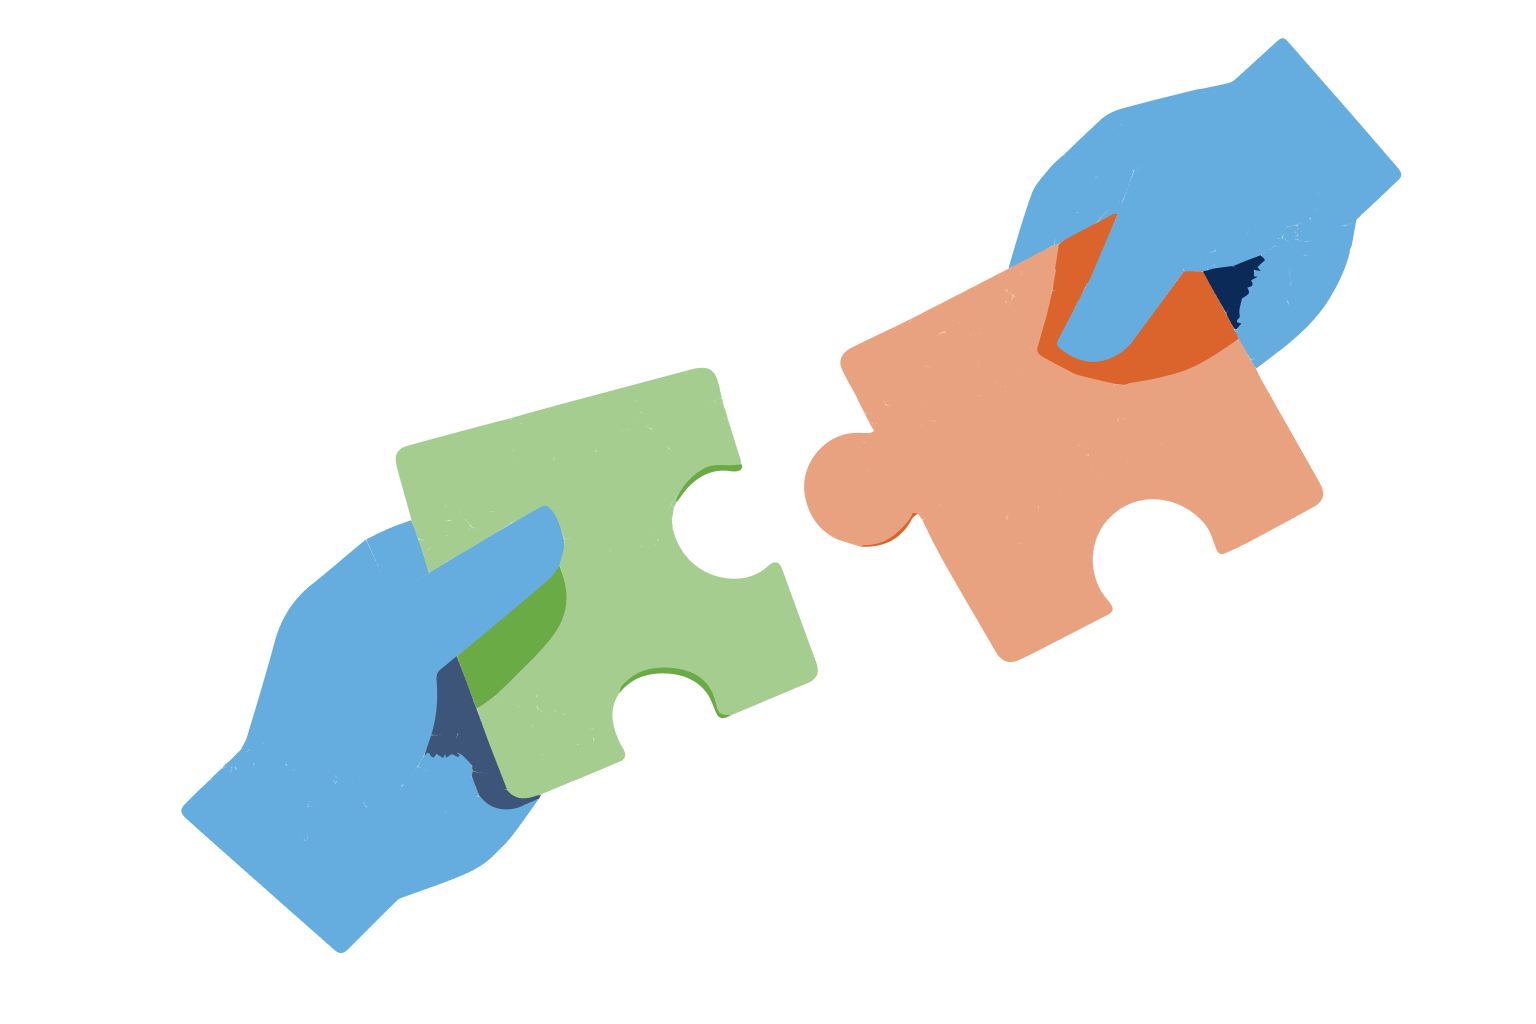
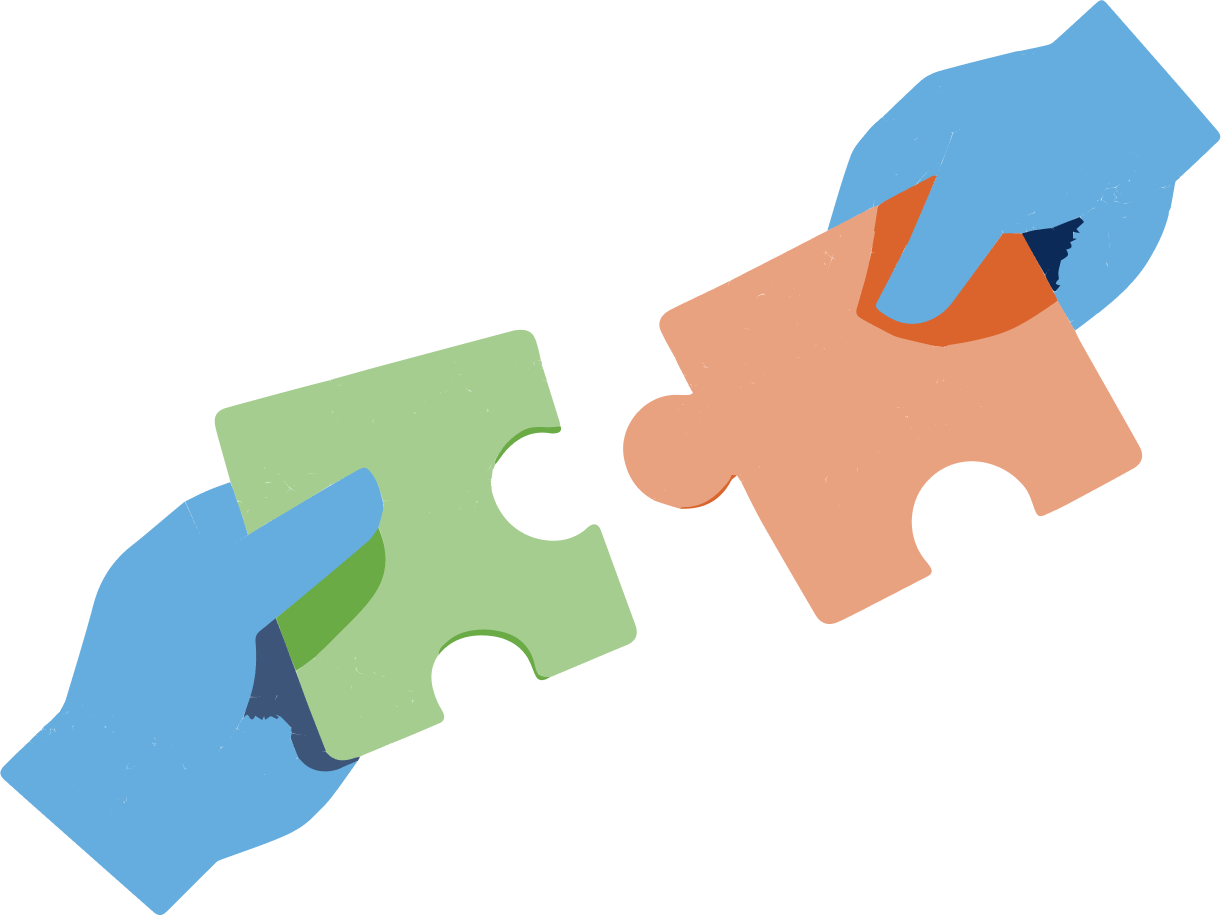
feat: update home page layout and improve component consistency
- Replace phone card text with images for better visual presentation
- Adjust image positioning and sizes in home page sections
- Implement dynamic height calculation for tip cards to ensure uniform appearance
- Update tip text formatting by removing trailing ellipsis
- Add new image assets for phone number display

diff --git a/src/pages/Home.tsx b/src/pages/Home.tsx
@@ -1,3 +1,4 @@
+import { useEffect, useRef, useState } from 'react';
 import { useNavigate } from 'react-router-dom';
 import { ChevronRight } from 'lucide-react';
 import logoWhite from '../assets/images/usa-la-testa_logo-white.png';
@@ -12,6 +13,26 @@ import aComponentImg from '../assets/images/a_component.png';
 
 export default function Home() {
   const navigate = useNavigate();
+  const [tipsMinHeight, setTipsMinHeight] = useState<number>(0);
+  const tipRefs = useRef<(HTMLDivElement | null)[]>([]);
+
+  useEffect(() => {
+    const measure = () => {
+      const heights = tipRefs.current.filter(Boolean).map(el => (el as HTMLDivElement).scrollHeight);
+      if (heights.length) {
+        const max = Math.max(...heights);
+        setTipsMinHeight(max);
+      }
+    };
+    measure();
+    const onResize = () => {
+      measure();
+    };
+    window.addEventListener('resize', onResize);
+    return () => {
+      window.removeEventListener('resize', onResize);
+    };
+  }, []);
 
   return (
     <div className="min-h-screen bg-slate-50">
@@ -48,7 +69,7 @@ export default function Home() {
               <img 
                 src={quizImg} 
                 alt="Quiz" 
-                className="absolute right-0 top-0 h-full w-1/2 object-cover object-center opacity-90 group-hover:scale-105 transition-transform duration-500"
+                className="absolute right-0 top-0 h-full w-1/2 translate-x-8 object-cover object-center opacity-90 group-hover:scale-105 transition-transform duration-500"
               />
             </div>
           </div>
@@ -77,7 +98,7 @@ export default function Home() {
               <img 
                 src={decalogoImg} 
                 alt="Decalogo" 
-                className="absolute bottom-0 right-0 w-24 h-24 object-contain translate-x-2 translate-y-2 group-hover:scale-105 transition-transform"
+                className="absolute bottom-0 right-0 w-32 h-32 object-contain translate-x-2 translate-y-2 group-hover:scale-105 transition-transform"
               />
               {/* Background 'A' Element */}
               <img 
@@ -114,7 +135,7 @@ export default function Home() {
               <img 
                 src={supportoImg} 
                 alt="Supporto" 
-                className="absolute bottom-0 right-0 w-24 h-24 object-contain translate-x-2 translate-y-2 group-hover:scale-105 transition-transform"
+                className="absolute bottom-0 right-0 w-32 h-32 object-contain translate-x-2 translate-y-6 group-hover:scale-105 transition-transform"
               />
               {/* Background 'A' Element */}
               <img 
@@ -130,7 +151,7 @@ export default function Home() {
       </div>
 
       {/* Articles Section */}
-      <div className="mt-6 pl-4">
+      <div className="mt-10 mb-10 pl-4">
         <div className="flex justify-between items-center pr-4 mb-4">
           <h2 className="text-xl font-bold text-primary-blue">Articoli</h2>
           <button 
@@ -160,9 +181,9 @@ export default function Home() {
       </div>
 
       {/* Tips Section */}
-      <div className="mt-2 px-4 pb-8">
+      <div className="mt-12 px-4 pb-12">
         <div className="text-center mb-6">
-          <h2 className="text-2xl font-bold text-primary-blue mb-2">I nostri consigli</h2>
+          <h2 className="text-4xl font-black text-primary-blue mb-4">I nostri consigli</h2>
           <p className="text-gray-600 text-sm">
             Affinché il gioco rimanga un GIOCO, presta attenzione ai seguenti suggerimenti:
           </p>
@@ -172,8 +193,10 @@ export default function Home() {
           {TIPS.map((tip, index) => (
             <div 
               key={tip.id}
-              className="sticky rounded-2xl p-6 relative overflow-visible shadow-md transform transition-transform h-[496px] flex flex-col"
+              ref={el => { tipRefs.current[index] = el; }}
+              className="sticky rounded-2xl p-6 relative overflow-visible shadow-md transform transition-transform flex flex-col"
               style={{ 
+                minHeight: tipsMinHeight || undefined,
                 top: `calc(5rem + ${index * 1.5}rem)`, 
                 zIndex: 10 + index,
                 background: tip.color || `linear-gradient(to bottom right, #64748b, #475569)`

diff --git a/src/components/CerchiAiuto.tsx b/src/components/CerchiAiuto.tsx
@@ -1,9 +1,8 @@
 import type { ReactNode } from 'react';
 import { useNavigate } from 'react-router-dom';
-import { Phone, MapPin } from 'lucide-react';
-
-const TELEFONO_VERDE = '800558822';
-const TELEFONO_DISPLAY = '800 - 558822';
+import { MapPin } from 'lucide-react';
+import telVerdeImg from '../assets/images/immagine-numero.png';
+import tel661501Img from '../assets/images/numero-verde-661501.jpg';
 
 interface CerchiAiutoProps {
   /** Callback quando si clicca "Scopri i Centri Aiuto". Se non passato, naviga a /support/centers. */
@@ -17,33 +16,25 @@ interface CerchiAiutoProps {
 function PhoneCard({
   subtitle,
   title,
-  href,
+  imageSrc,
+  imageAlt,
 }: {
   subtitle: string;
   title: ReactNode;
-  href: string;
+  imageSrc: string;
+  imageAlt: string;
 }) {
   return (
     <div className="bg-white rounded-2xl border border-gray-200 shadow-sm p-4 sm:p-5 flex flex-col min-w-0">
       <span className="text-xs text-gray-400 mb-1">{subtitle}</span>
-      <span className="text-sm sm:text-base font-bold text-gray-900 leading-tight mb-3 sm:mb-4">{title}</span>
-      <a
-        href={href}
-        className="mt-auto rounded-full border-2 border-green-500 bg-white px-3 py-3 sm:px-4 sm:py-4 flex flex-col items-center justify-center gap-0.5 sm:gap-1 hover:bg-green-50/50 transition-colors active:scale-[0.98]"
-      >
-        <span className="text-[9px] sm:text-[10px] uppercase tracking-wider text-green-500 font-medium leading-tight">
-          Telefono Verde Nazionale
-        </span>
-        <div className="flex items-center justify-center gap-1.5 sm:gap-2">
-          <Phone size={22} className="w-[18px] h-[18px] sm:w-[22px] sm:h-[22px] text-green-600 shrink-0" strokeWidth={2.5} />
-          <span className="text-lg sm:text-xl font-bold text-green-700 tracking-tight">
-            {TELEFONO_DISPLAY}
-          </span>
-        </div>
-        <span className="text-[9px] sm:text-[10px] uppercase tracking-wider text-green-500 font-medium leading-tight text-center">
-          Problematiche gioco d&apos;azzardo
-        </span>
-      </a>
+      <span className="text-sm sm:text-base font-normal text-gray-900 leading-tight mb-3 sm:mb-4">{title}</span>
+      <div className="mt-auto w-full">
+        <img
+          src={imageSrc}
+          alt={imageAlt}
+          className="w-full h-20 sm:h-24 object-contain"
+        />
+      </div>
     </div>
   );
 }
@@ -67,16 +58,18 @@ export default function CerchiAiuto({
     <section className={className}>
       <h2 className="text-xl font-bold text-gray-900 mb-4">Cerchi aiuto?</h2>
 
-      <div className="grid grid-cols-1 sm:grid-cols-2 gap-4 mb-4">
+      <div className="grid grid-cols-2 gap-4 mb-4">
         <PhoneCard
           subtitle="Istituto Superiore di Sanità"
           title={<>Numero Verde<br />Nazionale DGA</>}
-          href={`tel:${TELEFONO_VERDE}`}
+          imageSrc={telVerdeImg}
+          imageAlt="Numero Verde Nazionale DGA"
         />
         <PhoneCard
           subtitle="Konsumer Italia"
           title={<>Non Dipendo,<br />scelgo!</>}
-          href={`tel:${TELEFONO_VERDE}`}
+          imageSrc={tel661501Img}
+          imageAlt="Numero Verde 800 661501"
         />
       </div>
 

diff --git a/src/data/tips.ts b/src/data/tips.ts
@@ -56,7 +56,7 @@ export const TIPS: Tip[] = [
   },
   {
     id: 2,
-    text: "Non giocare mai con denaro ricevuto in prestito o destinato ad altri scopi (es. affitto, bollette, regali per i figli, …).",
+    text: "Non giocare mai con denaro ricevuto in prestito o destinato ad altri scopi (es. affitto, bollette, regali per i figli).",
     // Primary Blue con blob di Orange dal bottom-right (blob grande)
     color: createOrganicGradient(COLORS.primaryBlue, COLORS.secondaryOrange, 'bottom-right', 'large')
   },
